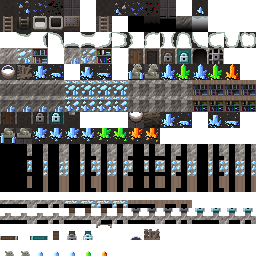
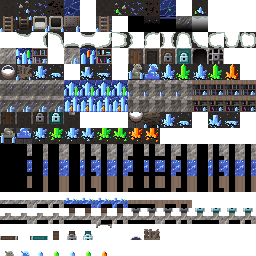
수정 광맥: 살아 있는 광맥이 광산 전체를 뒤덮은 모습으로 타일·꾸미기 보강
- 통째로 수정인 타일: 수정맥 벽(벽면·테두리·윗테두리), 결정 바닥(특수 바닥), 수정 석상
- 수정 기둥은 원작 채굴 퀘스트처럼 칸마다 푸른·초록·붉은 수정 중 하나
- 바위 결·벽 밑동·문 옆·책장·자갈 틈·사다리·우물·받침대·방책·낭떠러지 단면까지 수정이 스밈
- 수정맥 벽이 원작 금맥보다 자주, 옆으로 바닥을 마주한 벽에도 생기고, 넓은 방 모서리에 수정 기둥
- 수정 광맥에서는 원작 광산 장식(버섯·이끼·철제 구조물)이 수정 타일 위에 겹쳐 그려지지 않게 함

Claude-Session: https://claude.ai/code/session_01APSKFNB8xpLfNtbCfNBsyA

diff --git a/core/src/main/java/com/shatteredpixel/shatteredpixeldungeon/levels/CrystalVeinLevel.java b/core/src/main/java/com/shatteredpixel/shatteredpixeldungeon/levels/CrystalVeinLevel.java
@@ -1,8 +1,9 @@
 /*
  * Mirror Pixel Dungeon (Shattered Pixel Dungeon 모드)
  * 갈림길 테마: 수정 광맥 (11~14층) — 드워프들이 캐다 깨운 수정 생명체가 뒤덮은 광맥
- *  - 타일은 원작 광산(16px)을 바탕으로 원작 수정 채굴 퀘스트의 푸른 수정이 침식한 모습
- *    금맥 → 수정맥, 벽 밑동·바닥 틈의 수정, 긴 풀 대신 결정 덤불, 풀 대신 수정 가루, 바위 무더기 대신 수정 기둥
+ *  - 타일은 원작 광산(16px) 바탕에, 원작 수정 채굴 퀘스트의 푸른·초록·붉은 수정이 구석구석 침식한 모습
+ *    통째로 수정: 수정맥 벽(벽면·테두리), 결정 바닥(특수 바닥), 수정 석상, 수정 기둥(칸마다 색이 다름)
+ *    스며든 수정: 바위 결·벽 밑동·문 옆·책장·자갈 틈·사다리·우물·받침대·방책, 긴 풀 대신 결정 덤불, 풀 대신 수정 가루
  *  - 방·몹·아이템 수는 원작 광산과 같은 예산. 트롤 대장장이 퀘스트는 그대로
  *  - 아직 타일·지형만: 몹(수정 위습·결정화된 놀·프리즘 술사…), 마법 탄 반사, 수정 DM-300은 차례로 채울 예정
  *
@@ -16,7 +17,10 @@ package com.shatteredpixel.shatteredpixeldungeon.levels;
 
 import com.shatteredpixel.shatteredpixeldungeon.Assets;
 import com.shatteredpixel.shatteredpixeldungeon.Dungeon;
+import com.shatteredpixel.shatteredpixeldungeon.levels.painters.CrystalVeinPainter;
+import com.shatteredpixel.shatteredpixeldungeon.levels.painters.Painter;
 import com.shatteredpixel.shatteredpixeldungeon.messages.Messages;
+import com.shatteredpixel.shatteredpixeldungeon.tiles.DungeonTileSheet;
 
 public class CrystalVeinLevel extends CavesLevel {
 
@@ -28,6 +32,37 @@ public class CrystalVeinLevel extends CavesLevel {
 	@Override
 	public String tilesTex() {
 		return Assets.Environment.TILES_CRYSTAL_VEIN;
+	}
+
+	@Override
+	protected Painter painter() {
+		return new CrystalVeinPainter()
+				.setWater(feeling == Feeling.WATER ? 0.85f : 0.30f, 6)
+				.setGrass(feeling == Feeling.GRASS ? 0.65f : 0.15f, 3)
+				.setTraps(nTraps(), trapClasses(), trapChances());
+	}
+
+	public static boolean isVein(){
+		return Dungeon.level instanceof CrystalVeinLevel;
+	}
+
+	//수정 기둥 색: 원작 수정 채굴 퀘스트처럼 칸마다 푸른(절반)·초록·붉은 수정 중 하나, 모양도 둘 중 하나
+	private static int pillarVariance( int pos ){
+		byte[] v = DungeonTileSheet.tileVariance;
+		return (v == null || pos < 0 || pos >= v.length) ? 99 : v[pos];
+	}
+	private static int pillarColor( int pos ){
+		int v = pillarVariance( pos );
+		return v < 25 ? 1 : v < 50 ? 2 : 0;
+	}
+	public static int pillarRaised( int pos ){
+		return DungeonTileSheet.RAISED_MINE_CRYSTAL_BLUE_1 + 2*pillarColor( pos ) + pillarVariance( pos ) % 2;
+	}
+	public static int pillarOverhang( int pos ){
+		return DungeonTileSheet.MINE_CRYSTAL_OVERHANG_BLUE + pillarColor( pos );
+	}
+	public static int pillarFlat( int pos ){
+		return DungeonTileSheet.FLAT_MINE_CRYSTAL + pillarColor( pos );
 	}
 
 	@Override
@@ -54,7 +89,9 @@ public class CrystalVeinLevel extends CavesLevel {
 			case Terrain.GRASS:           return "grass";
 			case Terrain.HIGH_GRASS:      return "high_grass";
 			case Terrain.FURROWED_GRASS:  return "furrowed_grass";
+			case Terrain.EMPTY_SP:        return "floor_sp";
 			case Terrain.STATUE:          return "statue";
+			case Terrain.STATUE_SP:       return "statue_sp";
 			case Terrain.REGION_DECO:     return "region_deco";
 			case Terrain.REGION_DECO_ALT: return "region_deco_alt";
 			case Terrain.WATER:           return "water";

diff --git a/core/src/main/java/com/shatteredpixel/shatteredpixeldungeon/levels/painters/CrystalVeinPainter.java b/core/src/main/java/com/shatteredpixel/shatteredpixeldungeon/levels/painters/CrystalVeinPainter.java
@@ -1,0 +1,78 @@
+/*
+ * Mirror Pixel Dungeon (Shattered Pixel Dungeon 모드)
+ * 수정 광맥 꾸미기: 원작 광산 꾸미기에, 살아 있는 수정 광맥이 광산 전체를 뒤덮은 모습을 더함
+ *  - 금맥 대신 통째로 수정인 수정맥 벽이 원작 금맥보다 자주, 옆으로 바닥을 마주한 벽에도 지나감
+ *  - 넓은 방 안쪽 모서리에 수정 기둥이 돋음 (원작 광산이 모서리를 바위로 메우는 것과 같은 조건이라 길을 막지 않음)
+ *
+ * This program is free software: you can redistribute it and/or modify
+ * it under the terms of the GNU General Public License as published by
+ * the Free Software Foundation, either version 3 of the License, or
+ * (at your option) any later version.
+ */
+
+package com.shatteredpixel.shatteredpixeldungeon.levels.painters;
+
+import com.shatteredpixel.shatteredpixeldungeon.levels.Level;
+import com.shatteredpixel.shatteredpixeldungeon.levels.Terrain;
+import com.shatteredpixel.shatteredpixeldungeon.levels.rooms.Room;
+import com.shatteredpixel.shatteredpixeldungeon.levels.rooms.quest.BlacksmithRoom;
+import com.shatteredpixel.shatteredpixeldungeon.levels.rooms.standard.StandardRoom;
+import com.shatteredpixel.shatteredpixeldungeon.tiles.DungeonTileSheet;
+import com.watabou.utils.Random;
+
+import java.util.ArrayList;
+
+public class CrystalVeinPainter extends CavesPainter {
+
+	@Override
+	protected void generateGold(Level level, ArrayList<Room> rooms) {
+		int w = level.width();
+		int l = level.length();
+		int[] map = level.map;
+
+		//바닥을 마주한 벽은 셋 중 하나가 수정맥 (원작 금맥은 넷 중 하나)
+		for (int i = 0; i < l - w; i++) {
+			if (map[i] == Terrain.WALL && DungeonTileSheet.floorTile(map[i + w]) && Random.Int(3) == 0) {
+				map[i] = Terrain.WALL_DECO;
+			}
+		}
+
+		//옆으로 바닥을 마주한 벽에도 수정맥이 지나감 (위에서 보면 벽 테두리가 수정)
+		for (int i = w; i < l - w; i++) {
+			int x = i % w;
+			if (map[i] == Terrain.WALL && x > 0 && x < w - 1
+					&& (DungeonTileSheet.floorTile(map[i - 1]) || DungeonTileSheet.floorTile(map[i + 1]))
+					&& Random.Int(5) == 0) {
+				map[i] = Terrain.WALL_DECO;
+			}
+		}
+
+		//넓은 방 안쪽 모서리에 수정 기둥
+		for (Room room : rooms) {
+			if (!(room instanceof StandardRoom) || room instanceof BlacksmithRoom) continue;
+			if (room.width() <= 4 || room.height() <= 4) continue;
+
+			int[][] corners = {
+					{room.left + 1, room.top + 1, -1, -1},
+					{room.right - 1, room.top + 1, 1, -1},
+					{room.left + 1, room.bottom - 1, -1, 1},
+					{room.right - 1, room.bottom - 1, 1, 1}
+			};
+			for (int[] c : corners) {
+				if (Random.Int(3) != 0) continue;
+				int cell = c[0] + c[1] * w;
+				int side = cell + c[2];
+				int vert = cell + c[3] * w;
+				if ((map[cell] == Terrain.EMPTY || map[cell] == Terrain.EMPTY_DECO)
+						&& (map[side] == Terrain.WALL || map[side] == Terrain.WALL_DECO)
+						&& !room.connected.containsValue(level.cellToPoint(side))
+						&& (map[vert] == Terrain.WALL || map[vert] == Terrain.WALL_DECO)
+						&& !room.connected.containsValue(level.cellToPoint(vert))
+						&& map[cell - c[2]] != Terrain.TRAP && map[cell - c[3] * w] != Terrain.TRAP
+						&& level.traps.get(cell) == null) {
+					map[cell] = Terrain.REGION_DECO;
+				}
+			}
+		}
+	}
+}

diff --git a/core/src/main/java/com/shatteredpixel/shatteredpixeldungeon/tiles/DungeonTileSheet.java b/core/src/main/java/com/shatteredpixel/shatteredpixeldungeon/tiles/DungeonTileSheet.java
@@ -23,6 +23,7 @@ package com.shatteredpixel.shatteredpixeldungeon.tiles;
 
 import com.shatteredpixel.shatteredpixeldungeon.Dungeon;
 import com.shatteredpixel.shatteredpixeldungeon.actors.mobs.npcs.Blacksmith;
+import com.shatteredpixel.shatteredpixeldungeon.levels.CrystalVeinLevel;
 import com.shatteredpixel.shatteredpixeldungeon.levels.MiningLevel;
 import com.shatteredpixel.shatteredpixeldungeon.levels.Terrain;
 import com.watabou.utils.Random;
@@ -341,7 +342,8 @@ public class DungeonTileSheet {
 
 		if (tile == Terrain.BOOKSHELF || below == Terrain.BOOKSHELF)        result = WALL_INTERNAL_WOODEN;
 		//TODO currently this line on triggers on mining floors, do we want to make it universal?
-		else if (Dungeon.branch == 1 && tile == Terrain.WALL_DECO)          result = WALL_INTERNAL_DECO;
+		//모드: 수정 광맥도 수정맥 벽은 테두리까지 수정
+		else if ((Dungeon.branch == 1 || CrystalVeinLevel.isVein()) && tile == Terrain.WALL_DECO)          result = WALL_INTERNAL_DECO;
 		else                                                                result = WALL_INTERNAL;
 
 		if (!wallStitcheable(right))        result += 1;
@@ -370,7 +372,7 @@ public class DungeonTileSheet {
 		else if (tile == Terrain.HERO_LKD_DR)                       visual = DOOR_SIDEWAYS_OVERHANG_LOCKED;
 		else if (tile == Terrain.CRYSTAL_DOOR)                      visual = DOOR_SIDEWAYS_OVERHANG_CRYSTAL;
 		//TODO currently this line on triggers on mining floors, do we want to make it universal?
-		else if (Dungeon.branch == 1 && below == Terrain.WALL_DECO) visual = WALL_OVERHANG_DECO;
+		else if ((Dungeon.branch == 1 || CrystalVeinLevel.isVein()) && below == Terrain.WALL_DECO) visual = WALL_OVERHANG_DECO;
 		else if (below == Terrain.BOOKSHELF)                        visual = WALL_OVERHANG_WOODEN;
 		else                                                        visual = WALL_OVERHANG;
 

diff --git a/core/src/main/java/com/shatteredpixel/shatteredpixeldungeon/tiles/DungeonTerrainTilemap.java b/core/src/main/java/com/shatteredpixel/shatteredpixeldungeon/tiles/DungeonTerrainTilemap.java
@@ -95,6 +95,10 @@ public class DungeonTerrainTilemap extends DungeonTilemap {
 				return DungeonTileSheet.RAISED_STATUE;
 			} else if (tile == Terrain.STATUE_SP) {
 				return DungeonTileSheet.RAISED_STATUE_SP;
+			} else if ((tile == Terrain.REGION_DECO || tile == Terrain.REGION_DECO_ALT)
+					&& com.shatteredpixel.shatteredpixeldungeon.levels.CrystalVeinLevel.isVein()) {
+				//모드: 수정 광맥의 수정 기둥은 칸마다 푸른·초록·붉은 수정
+				return com.shatteredpixel.shatteredpixeldungeon.levels.CrystalVeinLevel.pillarRaised( pos );
 			} else if (tile == Terrain.REGION_DECO) {
 				return DungeonTileSheet.RAISED_REGION_DECO;
 			} else if (tile == Terrain.REGION_DECO_ALT) {
@@ -123,6 +127,10 @@ public class DungeonTerrainTilemap extends DungeonTilemap {
 				return DungeonTileSheet.NULL_TILE;
 			}
 		} else {
+			if ((tile == Terrain.REGION_DECO || tile == Terrain.REGION_DECO_ALT)
+					&& com.shatteredpixel.shatteredpixeldungeon.levels.CrystalVeinLevel.isVein()) {
+				return com.shatteredpixel.shatteredpixeldungeon.levels.CrystalVeinLevel.pillarFlat( pos );
+			}
 			return DungeonTileSheet.getVisualWithAlts(
 					DungeonTileSheet.directFlatVisuals.get(tile),
 					pos);

diff --git a/core/src/main/java/com/shatteredpixel/shatteredpixeldungeon/tiles/TerrainFeaturesTilemap.java b/core/src/main/java/com/shatteredpixel/shatteredpixeldungeon/tiles/TerrainFeaturesTilemap.java
@@ -85,6 +85,14 @@ public class TerrainFeaturesTilemap extends DungeonTilemap {
 			return -1;
 		}
 
+		//모드: 수정 광맥은 수정 가루·결정 덤불·수정이 오른 석상·수정 기둥·방책을 자체 타일에 그려 두었으므로 동굴 장식을 겹치지 않음
+		if (com.shatteredpixel.shatteredpixeldungeon.levels.CrystalVeinLevel.isVein()
+				&& (tile == Terrain.GRASS || tile == Terrain.HIGH_GRASS || tile == Terrain.FURROWED_GRASS
+					|| tile == Terrain.STATUE || tile == Terrain.STATUE_SP || tile == Terrain.BARRICADE
+					|| tile == Terrain.REGION_DECO || tile == Terrain.REGION_DECO_ALT)){
+			return -1;
+		}
+
 		//모드: 놀 제국은 방책·토템·모닥불·고철 더미·천막을 자체 타일에 그려 두었으므로 동굴 장식을 겹치지 않음 (풀은 그대로)
 		if (com.shatteredpixel.shatteredpixeldungeon.levels.GnollEmpire.isEmpireLevel(Dungeon.level)){
 			if (tile == Terrain.BARRICADE || tile == Terrain.STATUE || tile == Terrain.STATUE_SP

diff --git a/core/src/main/java/com/shatteredpixel/shatteredpixeldungeon/tiles/DungeonWallsTilemap.java b/core/src/main/java/com/shatteredpixel/shatteredpixeldungeon/tiles/DungeonWallsTilemap.java
@@ -127,6 +127,10 @@ public class DungeonWallsTilemap extends DungeonTilemap {
 			return DungeonTileSheet.STATUE_OVERHANG;
 		} else if (pos + mapWidth < size && map[pos+mapWidth] == Terrain.STATUE_SP){
 			return DungeonTileSheet.STATUE_SP_OVERHANG;
+		} else if (pos + mapWidth < size && (map[pos+mapWidth] == Terrain.REGION_DECO || map[pos+mapWidth] == Terrain.REGION_DECO_ALT)
+				&& com.shatteredpixel.shatteredpixeldungeon.levels.CrystalVeinLevel.isVein()){
+			//모드: 수정 광맥의 수정 기둥 윗부분 (기둥과 같은 색)
+			return com.shatteredpixel.shatteredpixeldungeon.levels.CrystalVeinLevel.pillarOverhang( pos + mapWidth );
 		} else if (pos + mapWidth < size && map[pos+mapWidth] == Terrain.REGION_DECO){
 			return DungeonTileSheet.REGION_DECO_OVERHANG;
 		} else if (pos + mapWidth < size && map[pos+mapWidth] == Terrain.REGION_DECO_ALT){
